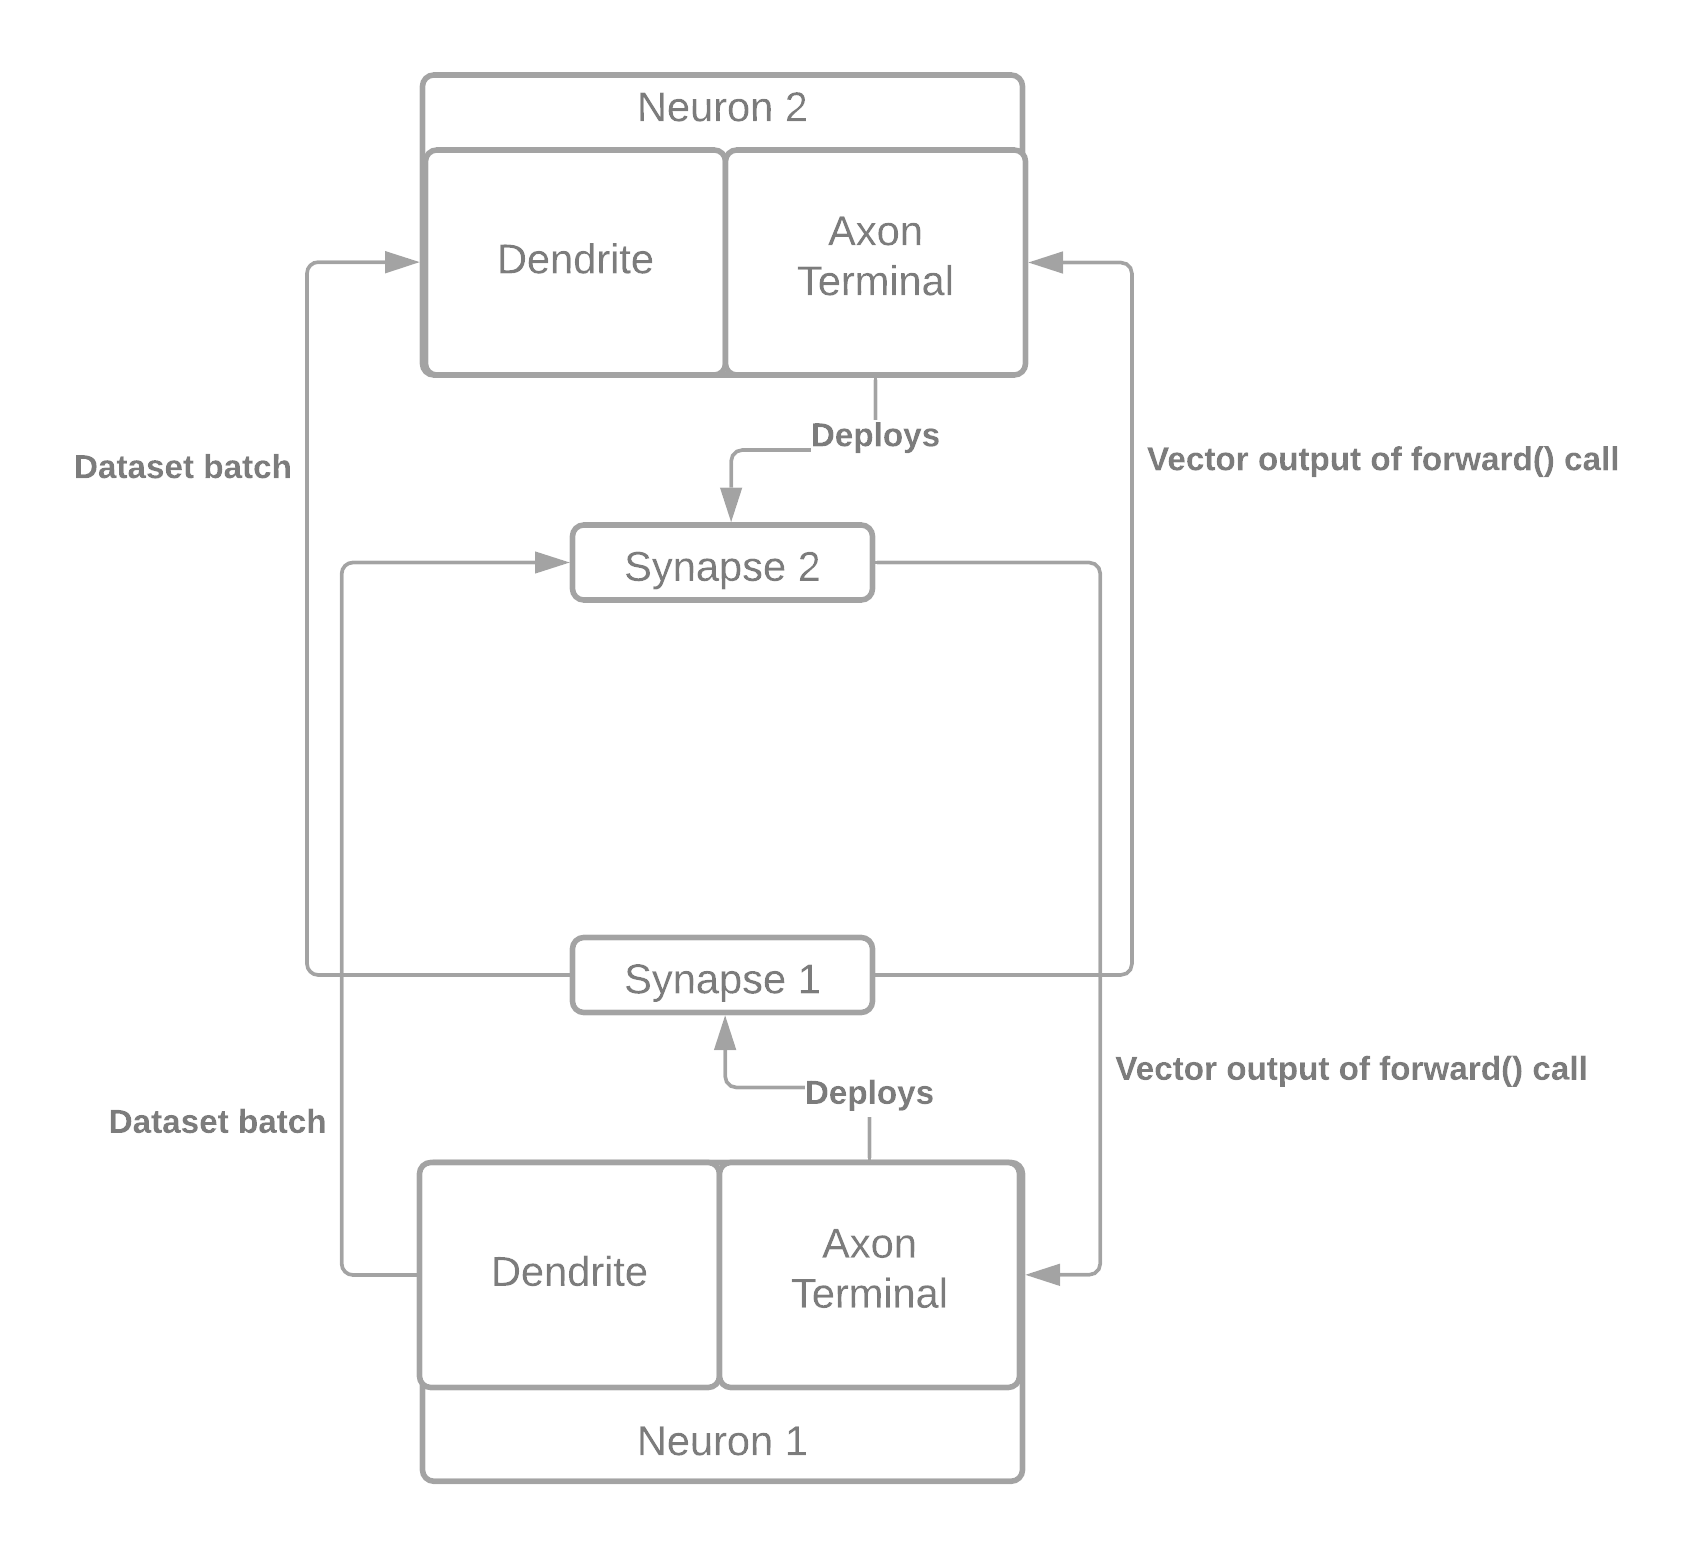
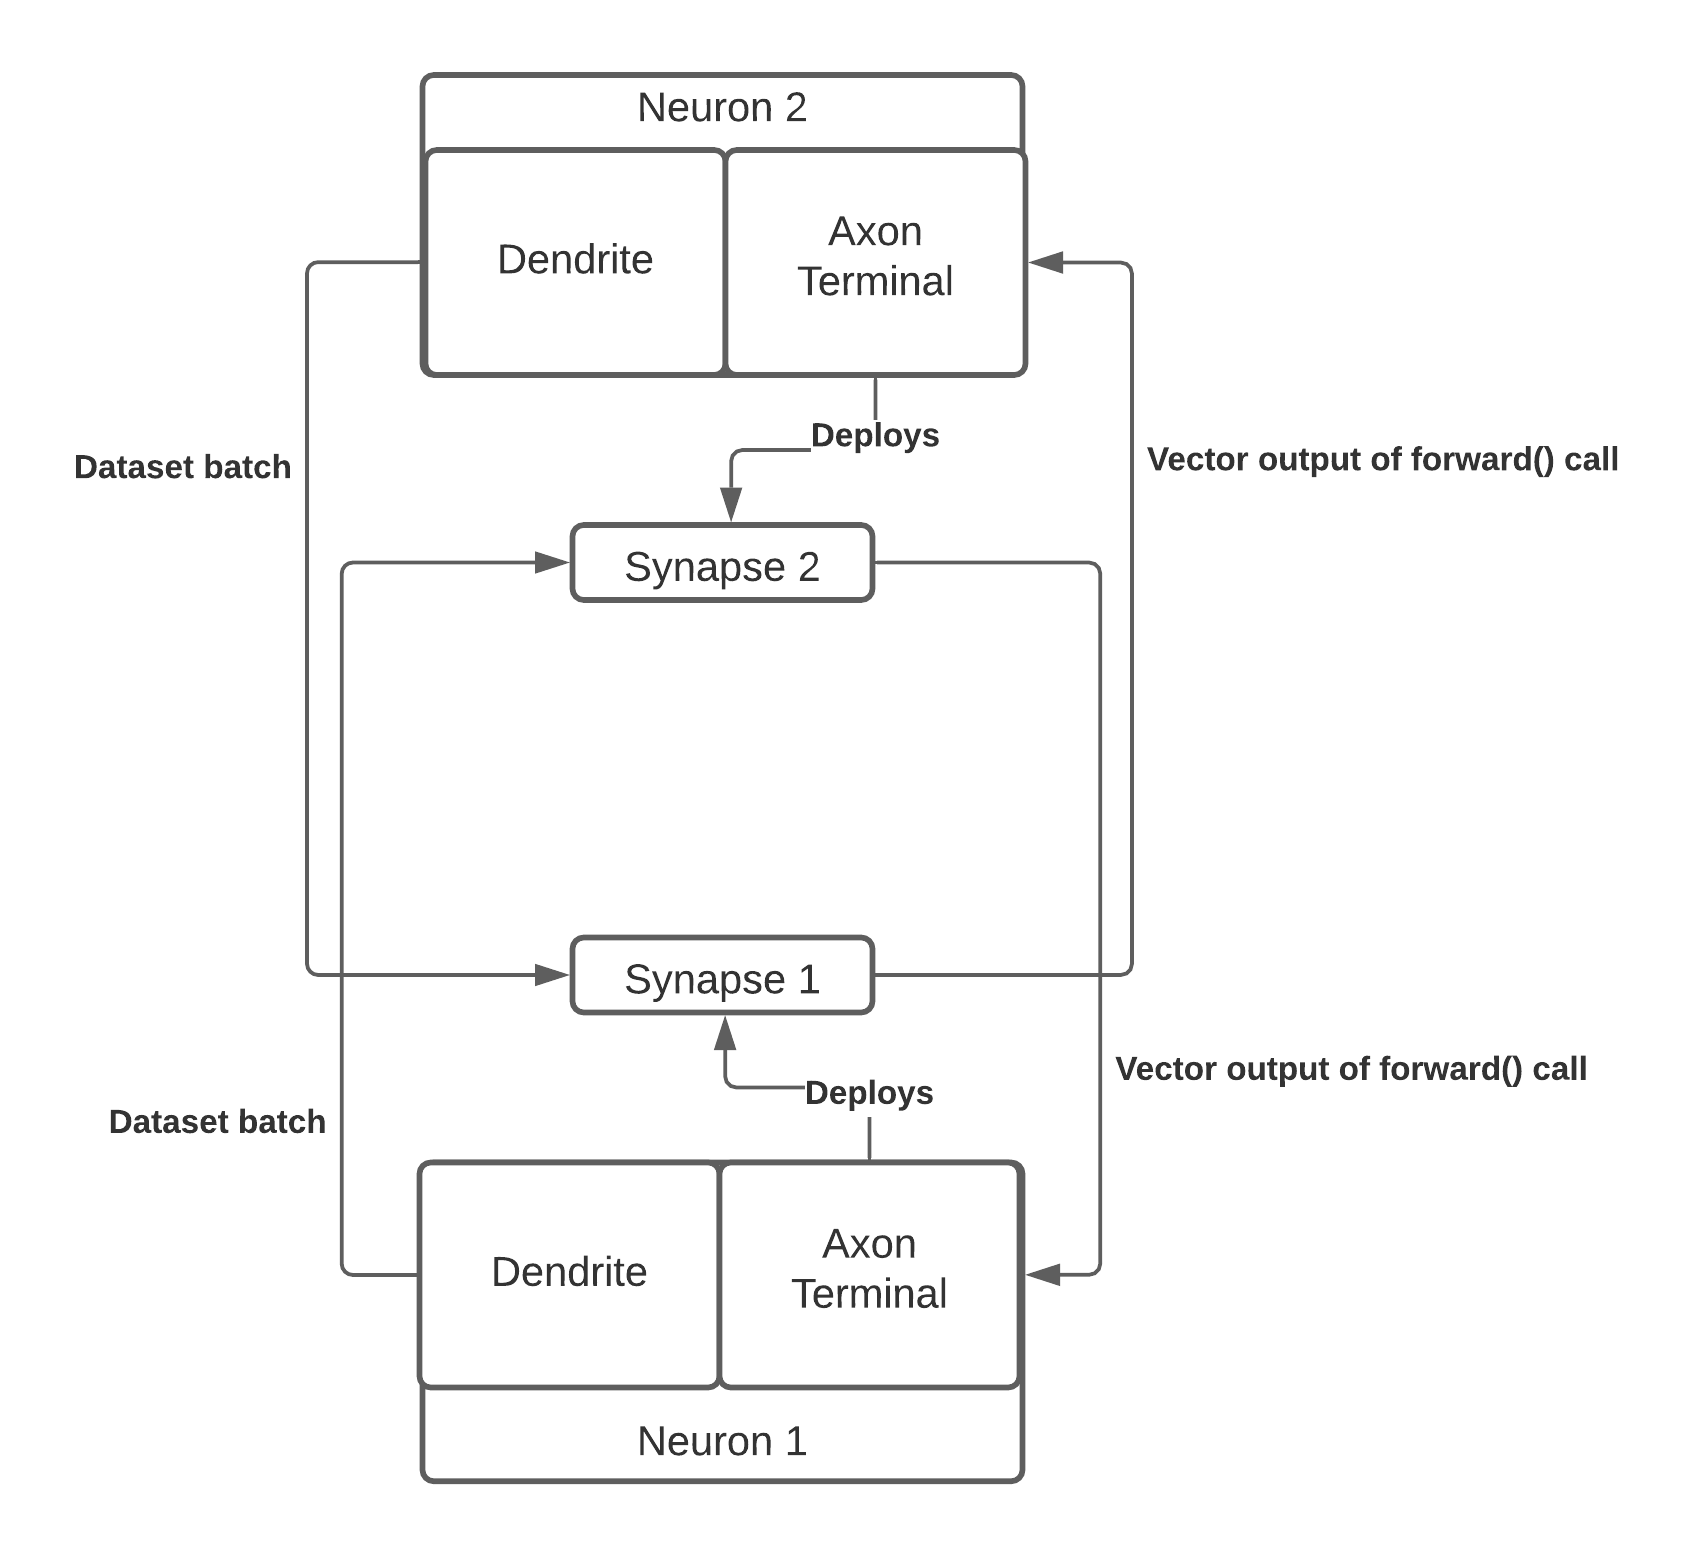
Incorrect diagram

diff --git a/docs/_build/html/searchindex.js b/docs/_build/html/searchindex.js
@@ -1,1 +1,1 @@
-Search.setIndex({docnames:["bittensor-deep-dive/bittensor-architecture","bittensor-deep-dive/grpc-protocol","getting-started/installation","getting-started/run-bittensor-via-docker","getting-started/run-bittensor-via-python","getting-started/run-multiple-bittensor-instances","index"],envversion:{"sphinx.domains.c":1,"sphinx.domains.changeset":1,"sphinx.domains.cpp":1,"sphinx.domains.javascript":1,"sphinx.domains.math":2,"sphinx.domains.python":1,"sphinx.domains.rst":1,"sphinx.domains.std":1,"sphinx.ext.todo":1,sphinx:54},filenames:["bittensor-deep-dive/bittensor-architecture.rst","bittensor-deep-dive/grpc-protocol.rst","getting-started/installation.rst","getting-started/run-bittensor-via-docker.rst","getting-started/run-bittensor-via-python.rst","getting-started/run-multiple-bittensor-instances.rst","index.rst"],objects:{},objnames:{},objtypes:{},terms:{"32x32":0,"byte":1,"case":[2,5],"class":1,"default":[2,3,4],"enum":[],"import":0,"new":[2,5],"public":[1,3],"return":1,For:[0,3],The:[1,2,3,4,5,6],There:[],These:[0,5],Use:1,Used:1,__main__:5,_python3:[],abl:[0,3,5],abov:[3,4],accept:3,account:1,achiev:5,across:[1,5],act:5,activ:2,address:1,advantag:5,adversari:1,after:5,against:1,all:[1,2,3,5],allow:5,along:5,alreadi:2,also:[0,1,5],analog:0,ani:[3,4],anoth:[4,5],api:[],applic:3,appropri:5,architectur:5,argument:[3,5],ascii:2,attack:1,automat:[3,5],avoid:1,axon:[0,3,4,5],axon_port:[3,4],back:1,backward:1,baillot:0,banner:2,bash:3,basic:0,batch:1,been:3,befor:2,begin:[4,5],behind:1,beign:[],being:[1,5],belong:5,below:0,benchmark:6,bert:[0,3],best:[],between:[0,1,5],bin:2,bind:[3,4,5],biolog:[],bird:0,bittensor:2,blabla:[],block:1,block_hash:1,blockchain:[1,5],bool:1,boostrap:5,boot:[3,4],bootstrap:[1,2,3,4,5],bootstrap_port:5,both:5,bound:5,box:[],brain:0,buffer:1,cach:[1,3,4],call:[0,1,3,4,5],caller:1,came:0,can:[0,1,2,3,4,5],cannot:5,caption:[],cell:0,chain:[1,3,4,5],chain_endpoint:[3,4],chang:5,chen:0,cifar:[0,3],clone:2,cloud:3,cluster:[],code:[],com:2,command:[3,5],common:0,commun:[0,1,4,5],compat:1,complet:0,complex:0,complic:0,computation:1,connect:[0,1,4,5],consist:0,construct:3,contain:[0,1,2,3],content:1,continu:0,counterpart:0,creat:[1,2,5],creation:1,credit:0,data:[1,5],dataset:[0,2],datatyp:[],david:0,debug:[],defin:1,definit:[1,6],dendrit:0,deploi:3,describ:[0,1],descript:[1,3,4],deseri:1,desktop:2,determin:5,develop:[3,5],diego:0,differ:5,digit:1,digraph:[],directli:[4,5],directori:[3,4],distil:5,dive:5,docker:2,document:0,doe:0,domin:6,done:4,download:[],dtype:1,dual:0,dure:[0,1],each:[0,4,5],easier:0,effici:5,enabl:0,encapsul:3,endpoint:[1,3,4],ensur:[1,4],env:2,environ:[2,3],epoch:5,essenc:[],essenti:1,etc:3,everyth:[2,3],exampl:[0,2,3,4,5],exchang:0,expand:6,expens:1,expert:1,explan:0,expos:5,eye:0,fabric:5,feed:0,field:6,figur:0,find:1,fire:5,first:[4,5],flag:[2,3,4],float32:1,float64:[],flood:1,folder:2,follow:[1,3,4,5],form:0,forward:[0,1],found:[0,1],framework:6,from:[0,1,3,5,6],full:[],fulli:1,futur:1,generalist:5,get:[],git:2,github:2,given:[3,4,5],going:[2,5],gossip:1,gossipbatch:[],gpu:3,gradient:[1,5],grand:0,group:0,grpc:5,guid:6,handl:3,has:[2,3,5],hash:1,hassl:3,have:[1,2,4],help:0,henc:[0,3,5],here:1,highli:0,hivemind:1,host:[3,5],how:5,howev:[5,6],http:[],hub:3,huggingfac:0,ident:1,identifi:1,imag:[0,1,3],implement:0,increas:5,increment:1,indentifi:1,index:[],indic:5,ineffici:6,info:5,inform:[0,1],initi:5,input:0,inspir:[],instal:3,instanc:[1,2,3,4],instead:3,int32:1,int64:1,intellig:6,interconnect:0,intern:5,ipsum:[],iptum:[],item:1,iter:5,its:[0,2,5],itself:[4,5],just:5,kei:[1,3,4],knowledg:[0,4,5,6],label:[],labelloc:[],laptop:3,larg:5,last:5,latest:[1,3],launch:5,learn:0,let:5,like:5,line:[3,5],link:1,list:1,listen:1,live:0,local:[2,3,5],localhost:3,log:3,logdir:3,look:5,loop:5,lorem:[],loss:5,low:6,machin:[0,6],mai:[1,2,3],main:[2,4,5],make:[2,6],mani:1,massiv:0,maxdepth:[],measur:6,messag:0,metagraph:[3,4,5],metagraph_port:[3,4,5],metagraph_s:[3,4],method:1,mnist:[0,2,3,5],modal:[],model:[0,2,3,4,5],model_path:[3,4],modul:[],moment:5,more:[0,1,5],most:0,move:4,multipl:[0,1],must:5,narrow:[5,6],nativ:3,need:[3,5],neighbor:[],network:[1,3,5,6],neural:0,neuron:[0,1,2,3,4],neuron_kei:[1,3,4],next:[],node:[0,1,5],note:[0,5],nounc:1,now:5,nucleu:0,number:[4,5],nutshel:5,object:1,ocean:[],offici:6,often:[],onc:[3,4],one:[2,5],onli:[1,3,5],onto:3,open:5,opentensor:2,oppos:5,option:1,order:1,org:[],other:[0,1,2,4,5],our:[0,5],output:5,overhead:1,packag:2,page:[],paramet:[3,4],part:0,pass:1,path:[0,3,4],payload:1,peer:[1,3,4,5,6],pick:4,pil:5,pip3:2,pip:[],point:1,port:[1,3,4,5],possibl:5,predefin:6,present:[0,5],pretend:1,prevent:1,primari:1,print:2,process:[1,2,5],product:6,proof_of_work:1,protect:1,proto:1,protobuf:[1,2],provid:6,public_kei:1,pull:3,purpos:[1,3,5],python3:[2,5],python3_:[],python:3,queri:1,random:5,rank:6,rankdir:[],rather:5,raw:1,readi:3,realpython:[],receiv:[0,1,5],recommend:[],reduc:1,refer:0,remot:[3,4],remote_ip:[3,4],repeat:1,replac:1,repositori:2,represent:1,request:[1,3],requir:[1,2,5],requires_grad:1,resili:5,resolut:6,resolv:5,respons:[0,5],rest:0,resum:[3,4],rpc:1,run:2,runtim:3,same:[0,5],san:0,save:[3,4],scale:0,script:[3,5],search:[],second:5,section:[],see:2,send:[0,1,5],sender:1,sent:1,serial:1,serv:[3,4],server:1,servic:[],set:[2,3,5,6],setup:5,shape:1,share:[1,4,5],should:2,show:5,side:3,sign:1,signatur:1,significantli:0,similar:5,similarli:[0,2],simpl:0,simpli:[2,3],simplifi:0,simul:5,sinc:[1,3],singl:4,size:[3,4],small:1,soma:0,some:[3,5],somewher:3,sourc:2,speak:4,specialist:5,specif:5,specifi:[2,5],spoof:1,start:[2,3,5],start_bittensor:[2,3,5],step:2,straightforward:0,string:1,structur:0,subgraph:[],succe:2,succeed:2,successfulli:5,summar:3,sure:2,synaps:5,synapse_kei:1,syntax:5,system:6,take:[0,5],target:5,task:6,tensor:5,tensormessag:[],termin:[0,3,4,5],test:[1,5],text:1,thei:[1,4,5],them:[5,6],therefor:0,thi:[0,1,2,3,4,5],thing:3,those:3,three:0,through:[0,1],thu:1,time:5,toctre:[],togeth:[0,5],token:[],tool:6,train:[2,3,4,5],travel:1,two:[0,5],txt:2,type:1,typic:[5,6],under:[0,2,3],understand:0,unknown:1,unless:5,use:[0,3],used:[1,6],useful:3,using:[1,2,5],utf8:1,util:[3,5],valu:[3,5],vein:[],venv:2,veri:[3,5],verifi:[1,2],version:[1,3,4,5],via:[],view:0,virtual:2,virtualenv:2,virtualenv_:[],wai:0,welcom:6,well:[1,5],when:[3,5],where:[1,5],wherea:5,whether:1,which:[1,3,5,6],whole:1,wire:[1,5],wish:[2,3],within:6,without:5,work:1,www:[],you:[2,3,4,5],your:[2,3,5],yourself:5},titles:["Bittensor Architecture","gRPC Protocol","Installation","Run Bittensor via Docker","Run Bittensor via Python","Running Multiple Bittensor Instances","Bittensor Documentation"],titleterms:{"enum":1,The:0,architectur:0,biolog:0,biologi:[],bittensor:[0,1,3,4,5,6],commun:[],contain:5,cours:[],crash:[],datatyp:1,docker:[3,5],document:6,end:[],get:[],gossipbatch:1,grpc:1,indic:[],inspir:0,instal:2,instanc:5,invent:[],machin:[],mechan:[],messag:1,metagraph:1,modal:1,multipl:5,nativ:5,network:0,protocol:1,python:[4,5],run:[3,4,5],servic:1,singl:[],start:[],synaps:1,tabl:[],tensor:1,tensormessag:1,via:[3,4,5],welcom:[],workflow:[]}})
+Search.setIndex({docnames:["bittensor-deep-dive/bittensor-architecture","bittensor-deep-dive/grpc-protocol","getting-started/installation","getting-started/run-bittensor-via-docker","getting-started/run-bittensor-via-python","getting-started/run-multiple-bittensor-instances","index"],envversion:{"sphinx.domains.c":1,"sphinx.domains.changeset":1,"sphinx.domains.cpp":1,"sphinx.domains.javascript":1,"sphinx.domains.math":2,"sphinx.domains.python":1,"sphinx.domains.rst":1,"sphinx.domains.std":1,"sphinx.ext.todo":1,sphinx:54},filenames:["bittensor-deep-dive/bittensor-architecture.rst","bittensor-deep-dive/grpc-protocol.rst","getting-started/installation.rst","getting-started/run-bittensor-via-docker.rst","getting-started/run-bittensor-via-python.rst","getting-started/run-multiple-bittensor-instances.rst","index.rst"],objects:{},objnames:{},objtypes:{},terms:{"32x32":0,"byte":1,"case":[2,5],"class":1,"default":[2,3,4],"enum":[],"import":0,"new":[2,5],"public":[1,3],"return":1,For:[0,3],The:[1,2,3,4,5,6],There:[],These:[0,5],Use:1,Used:1,__main__:5,_python3:[],abl:[0,3,5],abov:[3,4],accept:3,account:1,achiev:5,across:[1,5],act:5,activ:2,address:1,advantag:5,adversari:1,after:5,against:1,all:[1,2,3,5],allow:5,along:5,alreadi:2,also:[0,1,5],analog:0,ani:[3,4],anoth:[4,5],api:[],applic:3,appropri:5,architectur:5,argument:[3,5],ascii:2,assum:0,attack:1,automat:[3,5],avoid:1,axon:[0,3,4,5],axon_port:[3,4],back:1,backward:1,baillot:0,banner:2,bash:3,basic:0,batch:1,been:3,befor:2,begin:[4,5],behind:1,beign:[],being:[1,5],belong:5,below:0,benchmark:6,bert:[0,3],best:[],between:[0,1,5],bin:2,bind:[3,4,5],biolog:[],bird:0,bittensor:2,blabla:[],block:1,block_hash:1,blockchain:[1,5],bool:1,boostrap:5,boot:[3,4],bootstrap:[1,2,3,4,5],bootstrap_port:5,both:5,bound:5,box:[],brain:0,buffer:1,cach:[1,3,4],call:[0,1,3,4,5],caller:1,came:0,can:[0,1,2,3,4,5],cannot:5,caption:[],cell:0,chain:[1,3,4,5],chain_endpoint:[3,4],chang:5,chen:0,cifar:[0,3],clone:2,cloud:3,cluster:[],code:[],com:2,come:0,command:[3,5],common:0,commun:[0,1,4,5],compat:1,complet:0,complex:0,complic:0,compon:0,computation:1,connect:[0,1,4,5],consist:0,construct:3,contain:[0,1,2,3],content:1,continu:0,counterpart:0,creat:[1,2,5],creation:1,credit:0,data:[1,5],dataset:[0,2],datatyp:[],david:0,debug:[],defin:1,definit:[1,6],dendrit:0,deploi:[0,3],describ:[0,1],descript:[1,3,4],deseri:1,desktop:2,determin:5,develop:[3,5],diego:0,differ:5,digit:1,digraph:[],directli:[4,5],directori:[3,4],distil:5,dive:5,docker:2,document:0,doe:0,domin:6,done:4,download:[],dtype:1,dual:0,dure:[0,1],each:[0,4,5],easier:0,effect:0,effici:5,enabl:0,encapsul:3,endpoint:[1,3,4],ensur:[1,4],env:2,environ:[2,3],epoch:5,essenc:[],essenti:1,etc:3,everyth:[2,3],exampl:[0,2,3,4,5],exchang:0,expand:6,expens:1,expert:1,explan:0,expos:5,eye:0,fabric:5,feed:0,field:6,figur:0,find:1,fire:5,first:[4,5],flag:[2,3,4],float32:1,float64:[],flood:1,folder:2,follow:[1,3,4,5],form:0,forward:[0,1],found:[0,1],framework:6,from:[0,1,3,5,6],full:[],fulli:1,futur:1,generalist:5,get:[],git:2,github:2,given:[3,4,5],going:[2,5],gossip:1,gossipbatch:[],gpu:3,gradient:[1,5],grand:0,group:0,grpc:5,guid:6,handl:3,has:[2,3,5],hash:1,hassl:3,have:[0,1,2,4],help:0,henc:[0,3,5],here:1,highli:0,hivemind:1,host:[3,5],how:5,howev:[5,6],http:[],hub:3,huggingfac:0,ident:1,identifi:1,imag:[0,1,3],implement:0,increas:5,increment:1,indentifi:1,index:[],indic:5,ineffici:6,info:5,inform:[0,1],initi:5,input:0,inspir:[],instal:3,instanc:[1,2,3,4],instead:3,int32:1,int64:1,intellig:6,interconnect:0,intern:5,ipsum:[],iptum:[],item:1,iter:5,its:[0,2,5],itself:[4,5],just:5,kei:[1,3,4],knowledg:[0,4,5,6],label:[],labelloc:[],laptop:3,larg:5,last:5,latest:[1,3],launch:5,learn:0,let:5,like:5,line:[3,5],link:1,list:1,listen:1,live:0,local:[0,2,3,5],localhost:3,log:3,logdir:3,logic:0,look:5,loop:5,lorem:[],loss:5,low:6,machin:[0,6],mai:[1,2,3],main:[0,2,4,5],make:[2,6],mani:1,massiv:0,maxdepth:[],measur:6,messag:0,metagraph:[3,4,5],metagraph_port:[3,4,5],metagraph_s:[3,4],method:1,mnist:[0,2,3,5],modal:[],model:[0,2,3,4,5],model_path:[3,4],modul:[],moment:5,more:[0,1,5],most:0,move:4,multipl:[0,1],must:5,narrow:[5,6],nativ:3,need:[3,5],neighbor:[],network:[1,3,5,6],neural:0,neuron:[0,1,2,3,4],neuron_kei:[1,3,4],next:[],node:[0,1,5],note:[0,5],nounc:1,now:5,nucleu:0,number:[4,5],nutshel:5,object:1,ocean:[],offici:6,often:[],onc:[3,4],one:[2,5],onli:[1,3,5],onto:3,open:5,opentensor:2,oppos:5,option:1,order:1,org:[],other:[0,1,2,4,5],our:[0,5],output:5,overhead:1,packag:2,page:[],paramet:[3,4],part:0,pass:1,path:[0,3,4],payload:1,peer:[1,3,4,5,6],pick:4,pil:5,pip3:2,pip:[],point:1,port:[1,3,4,5],possibl:5,predefin:6,present:[0,5],pretend:1,prevent:1,primari:1,print:2,process:[1,2,5],product:6,proof_of_work:1,protect:1,proto:1,protobuf:[1,2],provid:6,public_kei:1,pull:3,purpos:[1,3,5],python3:[2,5],python3_:[],python:3,queri:1,random:5,rank:6,rankdir:[],rather:5,raw:1,readi:3,realpython:[],receiv:[0,1,5],recommend:[],reduc:1,refer:0,remot:[0,3,4],remote_ip:[3,4],repeat:1,replac:1,repositori:2,represent:1,request:[1,3],requir:[1,2,5],requires_grad:1,resili:5,resolut:6,resolv:5,respons:[0,5],rest:0,resum:[3,4],rpc:1,run:2,runtim:3,same:[0,5],san:0,save:[3,4],scale:0,script:[3,5],search:[],second:5,section:[],see:2,send:[0,1,5],sender:1,sent:1,serial:1,serv:[3,4],server:1,servic:[],set:[2,3,5,6],setup:5,shape:1,share:[1,4,5],should:2,show:5,side:3,sign:1,signatur:1,significantli:0,similar:5,similarli:[0,2],simpl:0,simpli:[2,3],simplifi:0,simul:5,sinc:[1,3],singl:4,size:[3,4],small:1,soma:0,some:[3,5],somewher:3,sourc:2,speak:4,specialist:5,specif:5,specifi:[2,5],spoof:1,start:[2,3,5],start_bittensor:[2,3,5],step:2,straightforward:0,string:1,structur:0,subgraph:[],succe:2,succeed:2,successfulli:5,summar:3,sure:2,synaps:[0,5],synapse_kei:1,syntax:5,system:6,take:[0,5],target:5,task:6,tensor:5,tensormessag:[],termin:[0,3,4,5],test:[0,1,5],text:1,thei:[1,4,5],them:[5,6],therefor:0,thi:[0,1,2,3,4,5],thing:3,those:3,three:0,through:[0,1],thu:1,time:5,toctre:[],togeth:[0,5],token:[],tool:6,train:[0,2,3,4,5],travel:1,two:[0,5],txt:2,type:1,typic:[5,6],under:[0,2,3],understand:0,unknown:1,unless:5,use:[0,3],used:[1,6],useful:3,using:[1,2,5],utf8:1,util:[3,5],valu:[3,5],vein:[],venv:2,veri:[3,5],verifi:[1,2],version:[1,3,4,5],via:[],view:0,virtual:2,virtualenv:2,virtualenv_:[],wai:0,welcom:6,well:[0,1,5],when:[3,5],where:[0,1,5],wherea:5,whether:1,which:[1,3,5,6],whole:1,wire:[1,5],wish:[2,3],within:6,without:5,work:1,www:[],you:[2,3,4,5],your:[2,3,5],yourself:5},titles:["Bittensor Architecture","gRPC Protocol","Installation","Run Bittensor via Docker","Run Bittensor via Python","Running Multiple Bittensor Instances","Bittensor Documentation"],titleterms:{"enum":1,The:0,architectur:0,biolog:0,biologi:[],bittensor:[0,1,3,4,5,6],commun:[],contain:5,cours:[],crash:[],datatyp:1,docker:[3,5],document:6,end:[],get:[],gossipbatch:1,grpc:1,indic:[],inspir:0,instal:2,instanc:5,invent:[],machin:[],mechan:[],messag:1,metagraph:1,modal:1,multipl:5,nativ:5,network:0,protocol:1,python:[4,5],run:[3,4,5],servic:1,singl:[],start:[],synaps:1,tabl:[],tensor:1,tensormessag:1,via:[3,4,5],welcom:[],workflow:[]}})

diff --git a/docs/_build/html/bittensor-deep-dive/bittensor-architecture.html b/docs/_build/html/bittensor-deep-dive/bittensor-architecture.html
@@ -200,6 +200,12 @@ network of interconnected models that are able to learn form each other.</p>
 </ul>
 <p>For the rest of this document, we will refer to <strong>MNIST</strong> during our examples as it is the most straightforward network, and hence
 easier to understand the architecture of Bittensor through it.</p>
+<p>Assume we have two neurons as in the figure below, where each neuron contains 3 main components:</p>
+<ol class="arabic simple">
+<li><strong>Axon Terminal</strong>: Responsible for deploying a synapse and receiving information coming from a remote synapse.</li>
+<li><strong>Dendrite</strong>: Responsible for sending information to a remote synapse.</li>
+<li><strong>Neuron</strong>: Effectively the “soma” of a bittensor node. Contains the local model as well as the training and testing logic.</li>
+</ol>
 <div class="figure" id="id2">
 <img alt="../_images/Bittensor.png" src="../_images/Bittensor.png" />
 <p class="caption"><span class="caption-text">Bird’s-eye view of the communication between two Bittensor nodes.</span></p>

diff --git a/docs/bittensor-deep-dive/bittensor-architecture.rst b/docs/bittensor-deep-dive/bittensor-architecture.rst
@@ -44,6 +44,14 @@ Bittensor Neuron examples can be found under :code:`examples`. Presently, there 
 For the rest of this document, we will refer to **MNIST** during our examples as it is the most straightforward network, and hence 
 easier to understand the architecture of Bittensor through it. 
 
+Assume we have two neurons as in the figure below, where each neuron contains 3 main components:
+
+1. **Axon Terminal**: Responsible for deploying a synapse and receiving information coming from a remote synapse. 
+
+2. **Dendrite**: Responsible for sending information to a remote synapse. 
+
+3. **Neuron**: Effectively the "soma" of a bittensor node. Contains the local model as well as the training and testing logic.  
+
 .. figure:: 
     /images/Bittensor.png
 
